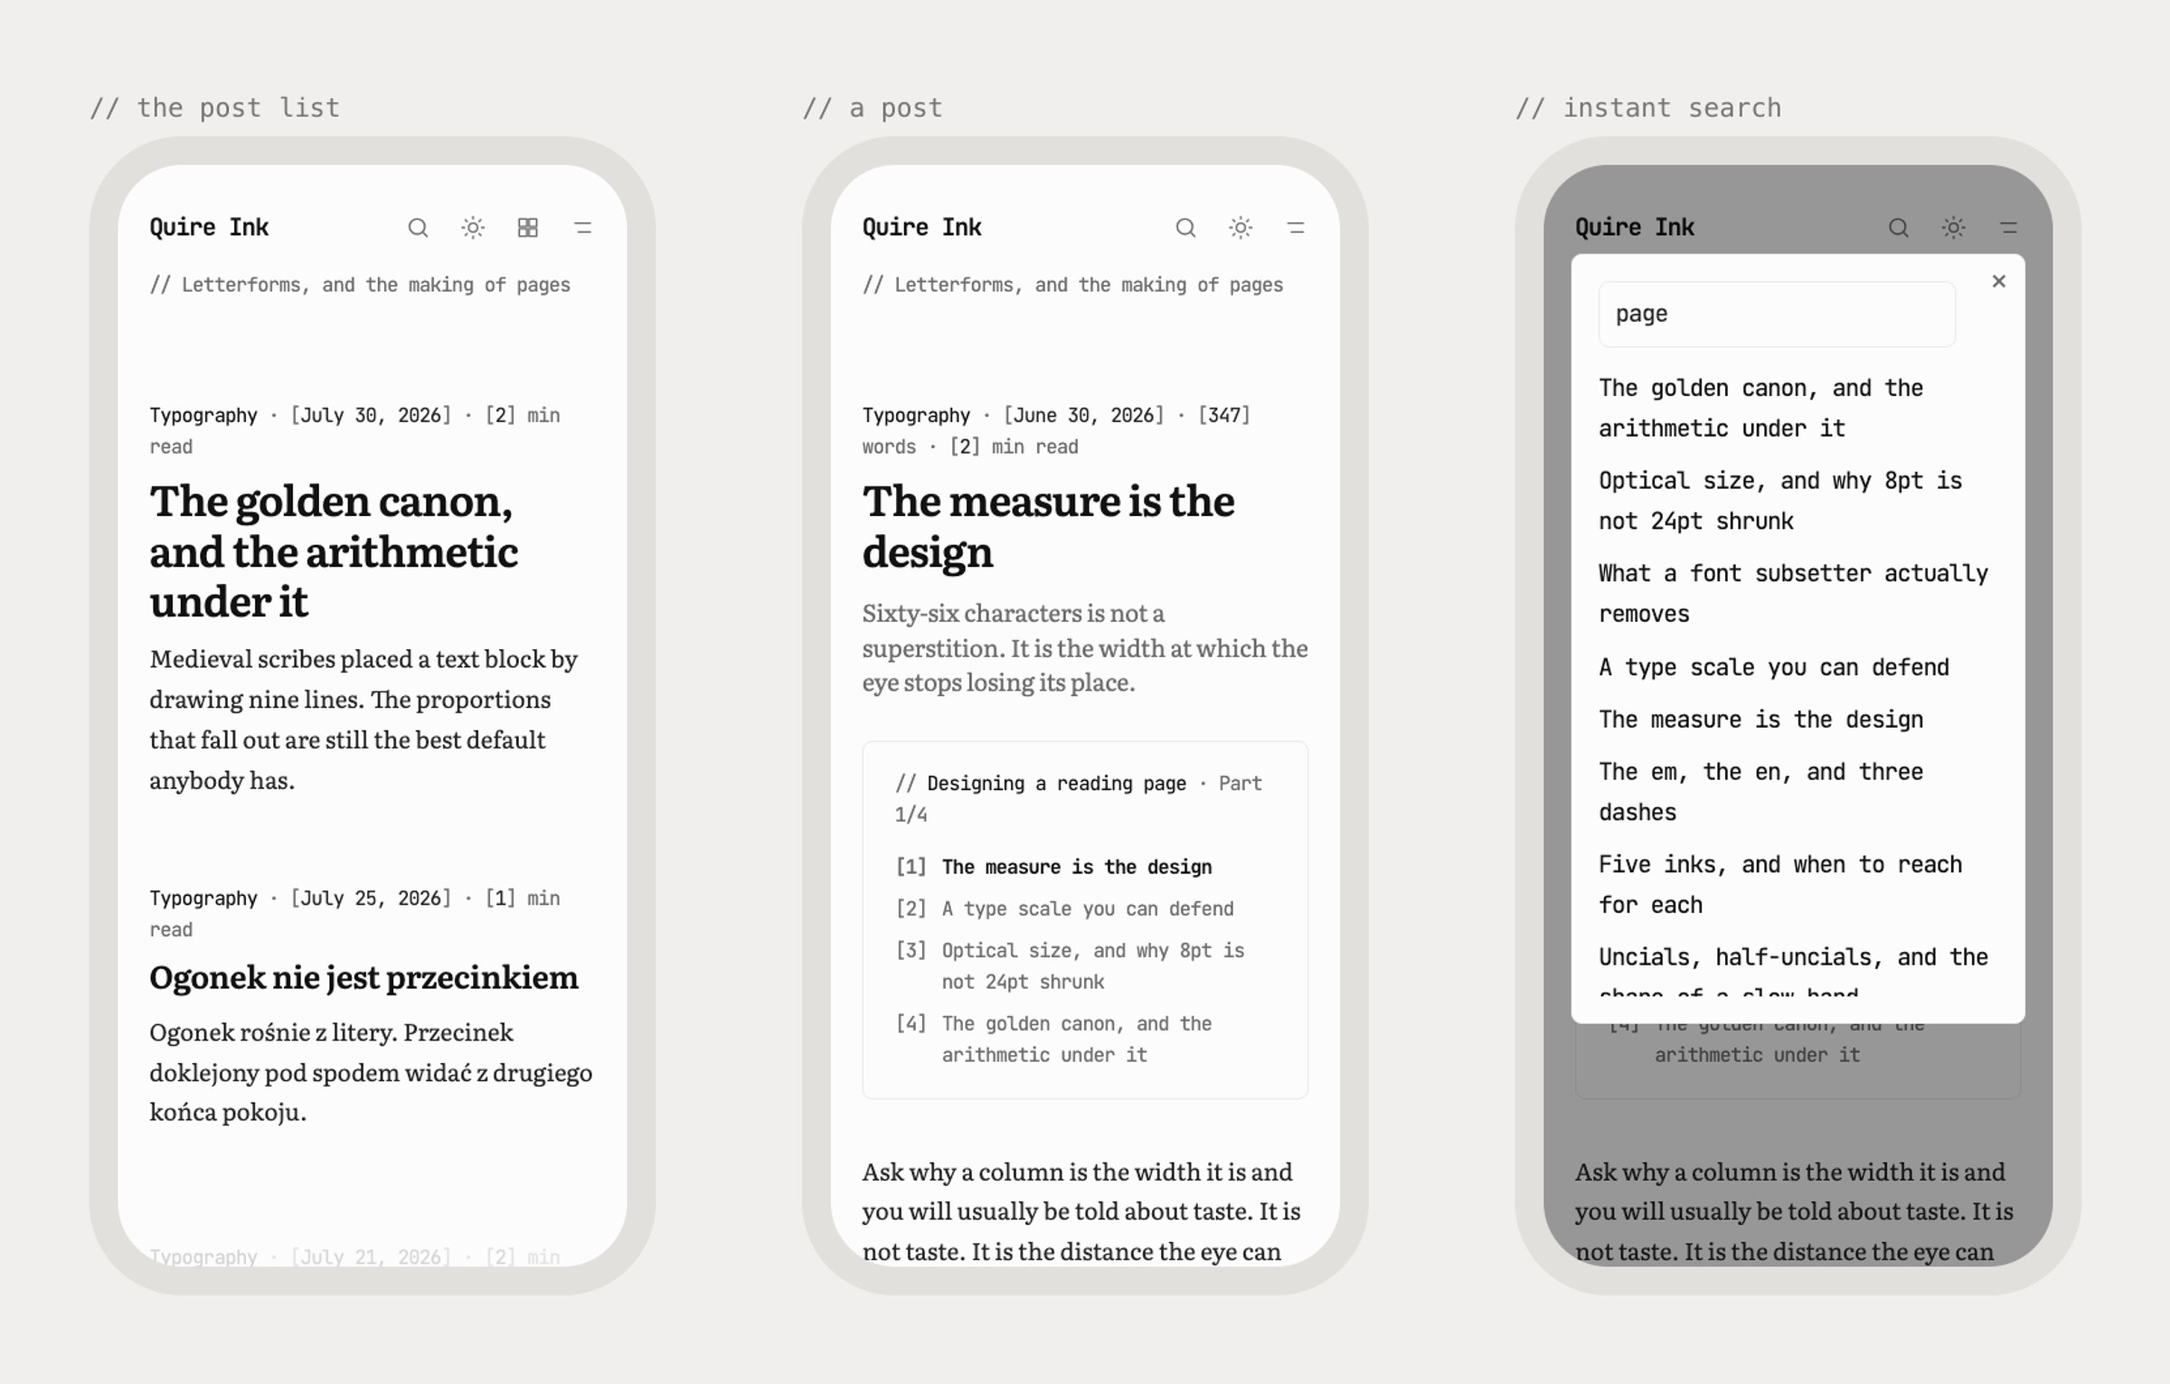
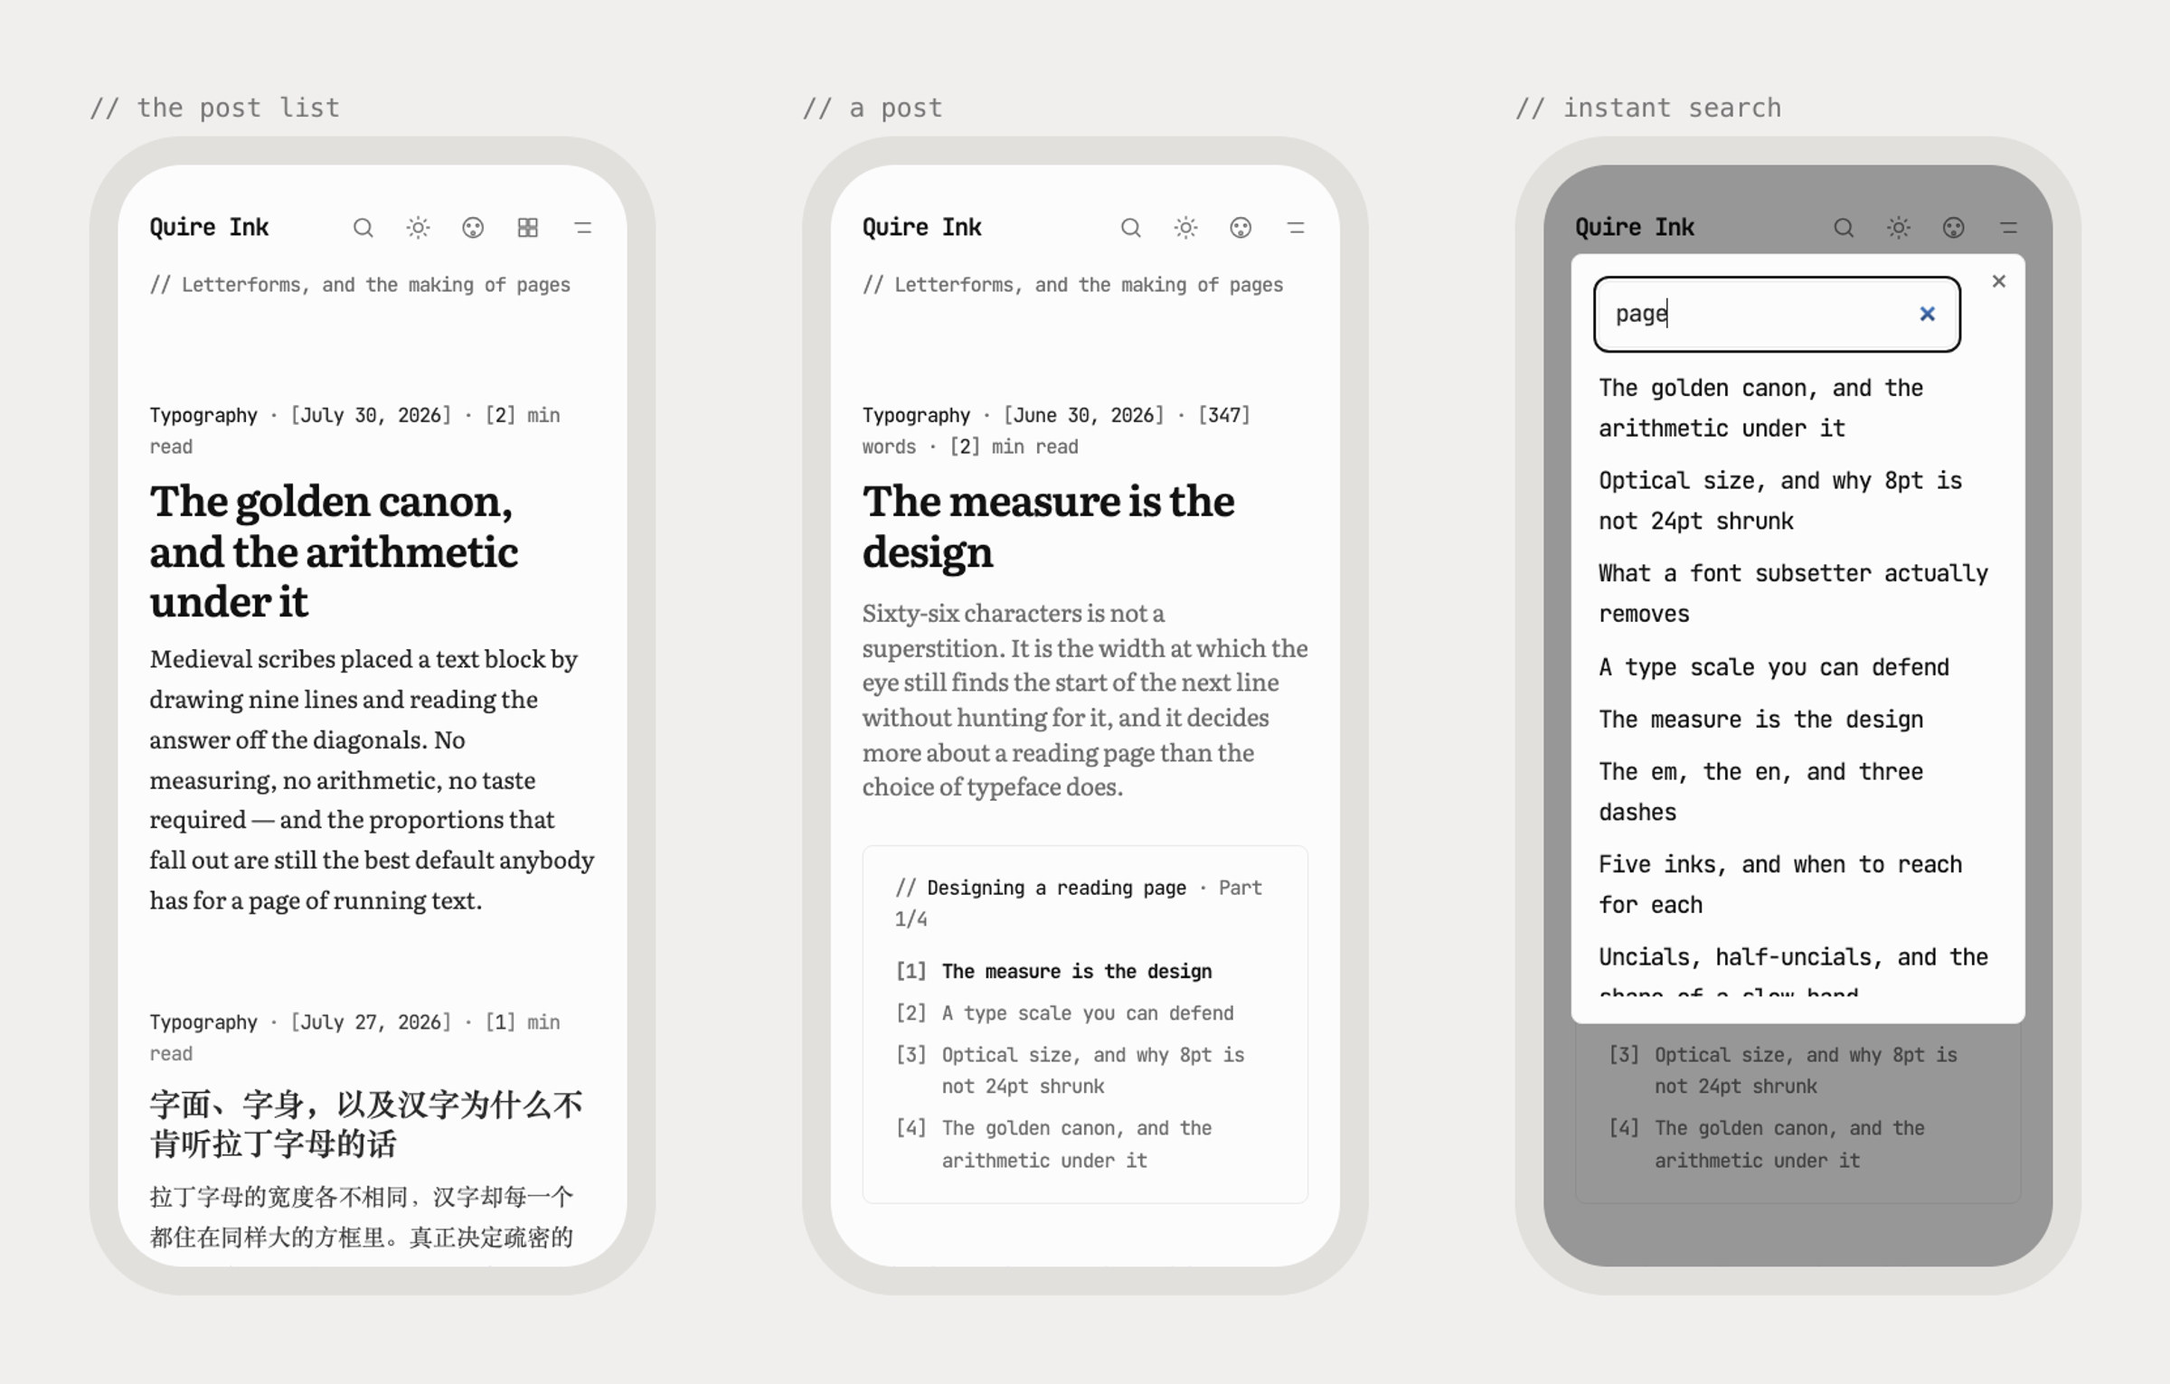
The docs still described the tree as it was before the release
Four plates and six files, all of them stale in the same way: they named a
file that moved, or claimed something the release had just stopped being true.

The plates are reshot from the current fixture, so the front page shows the
standfirsts at their real length and the three CJK posts, and the admin panels
show the admin as it now looks rather than as a dashboard framework.

`content/themes.ts` was named in five places for font helpers that are now in
`content/fonts.ts`. `i18n.md` said CJK falls back to `system-ui`, which was
the defect, not the design: it falls to a NAMED tail per language now.
`performance.md`'s CJK row said "a system font" without saying whose choice
that was.

ADR 0020 gets a dated note rather than a rewrite. It said the grammar lives in
`render/math.ts`; the file changed, the decision did not, and the reason it
changed is the ADR's own argument applied one level up.

CONTRIBUTING now says where the headless browser comes from, because the three
commands that need one no longer hardcode a Linux path.

READMEs: 2.0.3, and the payload rows re-read off this build -- unchanged, which
is worth stating rather than leaving a reader to assume.

diff --git a/README.vi.md b/README.vi.md
@@ -1,6 +1,6 @@
 <div align="center">
 
-# quire**INK** &nbsp;`2.0.2`
+# quire**INK** &nbsp;`2.0.3`
 
 **Một cái blog bạn tự host, và AI agent có thể vận hành thay bạn.**
 Một tiến trình. Hai tệp SQLite. Không tài khoản đám mây nào trong đường đi.
@@ -49,11 +49,13 @@ Có ba thứ định hình nó.
 
 Bạn được đọc, sửa, chạy và fork theo [PolyForm Noncommercial](./LICENSE).
 
-> **2.0.2 ra ngày 10/08/2026**, đang chạy bản demo ở trên và blog riêng của tác giả tại
-> [manhhung.me](https://manhhung.me). Bản này gồm mười hai lỗi được sửa, không có tính năng
-> mới — một giới hạn tần suất mà header giả mạo đi qua được, người đọc dùng giao diện tối mở
-> trang nào cũng loé trắng, và tệp CSS bị nén lại từ đầu ở mỗi request. Tất cả tìm ra bằng
-> cách **đo site đang chạy** chứ không phải đọc mã nguồn.
+> **2.0.3 ra ngày 15/08/2026**, đang chạy bản demo ở trên và blog riêng của tác giả tại
+> [manhhung.me](https://manhhung.me). Bản này gộp luôn 2.0.2, nên chỉ còn một bản để đọc.
+> Ba mươi tám commit: một đợt rà soát phát hiện không có giới hạn dung lượng tải lên, không
+> có hạn mức lưu trữ, và một máy chủ lắng nghe trên mọi giao diện mạng dưới một dòng log nói
+> ngược lại; một giới hạn tần suất mà header giả mạo đi qua được; và phần quản trị lâu nay
+> mặc bộ đồ của một framework dashboard chứ không phải của chính sản phẩm này. Gần như tất
+> cả đều tìm ra bằng cách **đo site đang chạy** chứ không phải đọc mã nguồn.
 > [Changelog](./CHANGELOG.md) có đủ những gì đã đổi.
 
 ---
@@ -94,7 +96,7 @@ Bạn được đọc, sửa, chạy và fork theo [PolyForm Noncommercial](./LI
 
 Đây là số đo từ mạng, lần vào đầu tiên, chưa cache gì. Đúng bằng cái mà một người lạ cầm điện thoại phải chờ.
 
-Hai dòng CSS và JavaScript là sản phẩm của bản build — giống nhau ở mọi bản cài — và lấy từ bản dựng 2.0.2. Các số tổng đo cho 2.0.1, tại origin chứ không qua CDN, và là của chính site này: tiếng Việt, Literata để đọc và JetBrains Mono cho phần khung. Chúng không phải thuộc tính của phần mềm, vì font được cắt theo bảng chữ và trình duyệt chỉ tải đúng những dải mà trang bạn dùng tới. Riêng font đã giảm từ 86 KB xuống 67 KB ở 2.0.1 mà không bỏ đi họ chữ nào.
+Hai dòng CSS và JavaScript là sản phẩm của bản build — giống nhau ở mọi bản cài — và lấy từ bản dựng 2.0.3 — 2.0.2 lẫn 2.0.3 đều không làm chúng nhúc nhích. Các số tổng đo cho 2.0.1, tại origin chứ không qua CDN, và là của chính site này: tiếng Việt, Literata để đọc và JetBrains Mono cho phần khung. Chúng không phải thuộc tính của phần mềm, vì font được cắt theo bảng chữ và trình duyệt chỉ tải đúng những dải mà trang bạn dùng tới. Riêng font đã giảm từ 86 KB xuống 67 KB ở 2.0.1 mà không bỏ đi họ chữ nào.
 
 | | Trang chủ | Một bài | |
 |:---|---:|---:|:---|

diff --git a/README.md b/README.md
@@ -1,6 +1,6 @@
 <div align="center">
 
-# quire**INK** &nbsp;`2.0.2`
+# quire**INK** &nbsp;`2.0.3`
 
 **A blog you host yourself, and an AI agent can run for you.**
 One process. Two SQLite files. No cloud account anywhere in the path.
@@ -49,12 +49,13 @@ Three things shaped it.
 
 You can read, change, run and fork it under [PolyForm Noncommercial](./LICENSE).
 
-> **2.0.2 came out on 2026-08-10** and runs the demo above plus the author's own blog at
-> [manhhung.me](https://manhhung.me). It is twelve fixes and no new features — a rate limit
-> that a forged header could walk past, a dark-mode reader who opened every page on a white
-> one, and a stylesheet that was re-compressed on every request. Found by measuring the
-> running site rather than reading the source, which is how the last release was audited too.
-> The [changelog](./CHANGELOG.md) has everything that changed.
+> **2.0.3 came out on 2026-08-15** and runs the demo above plus the author's own blog at
+> [manhhung.me](https://manhhung.me). It folds 2.0.2 in, so there is one release to read.
+> Thirty-eight commits: an audit that found no upload cap, no storage quota and a server
+> listening on every interface under a log line that said otherwise; a rate limit a forged
+> header could walk past; and an admin that had been wearing a dashboard framework's clothes
+> instead of this product's. Almost all of it was found by measuring the running site rather
+> than by reading the source. The [changelog](./CHANGELOG.md) has everything that changed.
 
 ---
 
@@ -94,7 +95,7 @@ You can read, change, run and fork it under [PolyForm Noncommercial](./LICENSE).
 
 These are off the network, first visit, nothing cached. It is what a stranger on a phone actually waits for.
 
-The CSS and JavaScript rows are build artefacts — the same bytes on every install — and are read off the 2.0.2 build. The totals were measured for 2.0.1 against the origin, not through the CDN, and they are this site: Vietnamese, Literata to read and JetBrains Mono for the furniture. They are not a property of the software, because the fonts are cut per script and a browser fetches only the ranges your pages actually use. Fonts fell 86 KB to 67 KB in 2.0.1 without a face being dropped.
+The CSS and JavaScript rows are build artefacts — the same bytes on every install — and are read off the 2.0.3 build; nothing in 2.0.2 or 2.0.3 moved them. The totals were measured for 2.0.1 against the origin, not through the CDN, and they are this site: Vietnamese, Literata to read and JetBrains Mono for the furniture. They are not a property of the software, because the fonts are cut per script and a browser fetches only the ranges your pages actually use. Fonts fell 86 KB to 67 KB in 2.0.1 without a face being dropped.
 
 | | Home | A post | |
 |:---|---:|---:|:---|

diff --git a/docs/conventions/type.md b/docs/conventions/type.md
@@ -16,7 +16,8 @@
   LOOKS wired, which is why review never caught it.
 - 9 roles (`TypeRole`: `h1–h5`, `body`, `small`, `caption`, `code`), each with
   size/line-height/letter-spacing → CSS vars `--fs/--lh/--ls-<role>`, from
-  `DEFAULT_TYPOGRAPHY` in [`src/content/themes.ts`](../../src/content/themes.ts). The owner's
+  `DEFAULT_TYPOGRAPHY` in [`src/content/fonts.ts`](../../src/content/fonts.ts) (re-exported by
+  `themes.ts`, so either import path works). The owner's
   `settings.typography` is emitted by `typographyToCss()` (also applies in the admin editor
   `.prose` = WYSIWYG). `smoothing` adds `-webkit-font-smoothing` on `body`.
 - **`--type-scale` lives inside the variable, not at the call site.** Each `--fs-<role>` is
@@ -121,7 +122,7 @@ re-substitutes it there. Pinned by `web/typography.test.ts`.
 ## Fonts — two handles, four built-in presets
 
 - **Built-in fonts (`fontPreset`).** Four self-hosted families in `FONT_PRESETS`
-  (`src/content/themes.ts`): Inter, Source Sans 3, Literata, Source Serif 4 — each declared per
+  (`src/content/fonts.ts`): Inter, Source Sans 3, Literata, Source Serif 4 — each declared per
   unicode-range in `src/render/font-faces.ts`,
   so a family downloads ONLY when the chosen preset uses it. Each preset carries the typography
   TUNED for it; picking a font in Admin → Appearance drops that setup into the editable roles (still
@@ -132,7 +133,7 @@ re-substitutes it there. Pinned by `web/typography.test.ts`.
   body + title, list cards, comment body, the editor `.prose`) and is what `fontPresetCss` /
   `fontToCss` point (custom upload wins). `--font-sans` is the system-chrome face (dates/reading-time,
   related/taxonomy, header, footer, rail — **the PUBLIC page only**), driven INDEPENDENTLY by the `chromeFont` selector
-  (`CHROME_FONTS` in `src/content/themes.ts`, Admin → Appearance): `inter` (default, no override) ·
+  (`CHROME_FONTS` in `src/content/fonts.ts`, Admin → Appearance): `inter` (default, no override) ·
   `reading` (points `--font-sans` at `--font-reading` so the chrome follows the reading font) ·
   `plex-mono` (self-hosted IBM Plex Mono — a "code" chrome while the body stays readable; declared
   per unicode-range in `src/render/font-faces.ts`, two static weights range-mapped 400/600,

diff --git a/docs/performance.md b/docs/performance.md
@@ -1,6 +1,6 @@
 > Split from CLAUDE.md — the **resource-loading law**: how fonts, CSS, and JS reach a
 > reader. One rule set, applied system-wide (every language, every font preset, every
-> uploaded font). Touching `src/web/layout.ts`, the font helpers in `src/content/themes.ts`,
+> uploaded font). Touching `src/web/layout.ts`, the font helpers in `src/content/fonts.ts`,
 > the `src/web/*.css.ts` sheets, or adding an island? Read this first.
 
 # Performance — resource loading (fonts · CSS · JS)
@@ -34,13 +34,13 @@ rel="preload">` exists ONLY to remove that one swap on the LCP title — so we p
 the file(s) that paint it, and nothing else.
 
 **The rule — one place, `fontPreloadHrefs(fontPreset, language, hasCustomFont, chromeFont)`
-in `src/content/themes.ts`, called once in `src/web/layout.ts`:**
+in `src/content/fonts.ts`, called once in `src/web/layout.ts`:**
 
 | Case | Preload |
 |---|---|
 | Built-in reading font, latin locale (`en`, `de`) | `‹slug›-latin.woff2` |
 | Built-in reading font, `vi` | `‹slug›-latin.woff2` **and** `‹slug›-vietnamese.woff2` (a VN title needs both unicode-ranges) |
-| Built-in reading font, CJK locale (`ja`, `zh`, `ko`) | **nothing** — the built-ins ship no CJK glyphs, so the title renders in a system font; a latin preload it won't use only steals bandwidth |
+| Built-in reading font, CJK locale (`ja`, `zh`, `ko`) | **nothing** — the built-ins ship no CJK glyphs and never will (a CJK webfont is megabytes), so the title renders in a system face; a latin preload it won't use only steals bandwidth. Which system face is not left to the browser: every reading stack ends in a NAMED CJK tail, one per language, selected by `cjkLangCss` on `:lang(zh\|ja\|ko)`. Zero bytes downloaded — see `CJK_ZH` / `CJK_JA` / `CJK_KO` in `src/content/fonts.ts` |
 | **Uploaded custom font** (`settings.customFont`) | **nothing** — the face is unsubsetted (whole charset, often large); a high-priority preload would contend with the render-blocking CSS and hurt LCP. It still wins `--font-reading` via `fontToCss`; `swap` covers the paint |
 | **Chrome font** (Inter default, IBM Plex Mono, "reading") | **NEVER** — not the LCP element; loads at normal priority via its `@font-face` and swaps in |
 

diff --git a/docs/decisions/0020-mathematics-as-mathml.md b/docs/decisions/0020-mathematics-as-mathml.md
@@ -70,10 +70,20 @@ look at it, so the delimiters are gone and nothing in the saved file records tha
 was ever a formula. Neither throws. Both corrupt the author's source on a save they did not
 know was a rewrite — open a post, close it, and the mathematics is quietly destroyed.
 
-So the grammar lives in `render/math.ts` and every reader of it calls the same two functions
+So the grammar lives in ONE file and every reader of it calls the same two functions
 (`matchMathAt`, `matchDisplayBlockAt`). No caller anywhere sees a capture group. That is the
 lesson of ADR 0018's pen, which drifted between two hand-written copies of its regex within
 an hour and put the word "green" into every excerpt on the site.
+
+> **2026-08-15 — that file is now `render/math-syntax.ts`, and the decision is unchanged.**
+> The grammar and the Temml renderer had shared `render/math.ts`, which was fine until you
+> notice an ESM import is not a menu: `@/utils` wanted three regex helpers so `toPlainText`
+> could drop a formula out of an excerpt, and took a LaTeX engine with them. Fifteen admin
+> files import `@/utils`, so 212 KB of Temml landed in the chunk every admin screen loads —
+> measured on the Comments screen, which has neither an editor nor a formula on it. The
+> split is along the line this ADR already drew: `math-syntax.ts` holds the grammar and may
+> never import a renderer; `math.ts` keeps `renderMath` and the `marked` extensions and
+> re-exports the grammar, so a parser that needs both halves still asks one module.
 
 The delimiter the author typed is stored on the node, so `\[…\]` comes back as `\[…\]`.
 Normalising it to `$$…$$` would have been one attribute cheaper and would mean that opening a

diff --git a/docs/conventions/i18n.md b/docs/conventions/i18n.md
@@ -3,8 +3,11 @@
 - `types.ts` = shapes (`Dict` public, `AdminStrings` admin). Add a key → every locale file
   must define it (`satisfies` → build error otherwise = the no-missing-keys guarantee).
 - `langs.ts` = `SITE_LANGS` + `isSiteLang`. Public `src/locales/<code>.ts`, admin
-  `src/locales/admin/<code>.ts`. Supported: **en (default), vi, de, ja, zh, ko** (CJK via
-  `system-ui` fallback — Inter has no CJK glyphs).
+  `src/locales/admin/<code>.ts`. Supported: **en (default), vi, de, ja, zh, ko**. No bundled
+  face carries a CJK glyph, so CJK falls to a system face — a NAMED one, not the browser's
+  last resort: `cjkLangCss` in `src/content/fonts.ts` emits a tail per language on
+  `:lang(zh|ja|ko)`, because 直 is one codepoint drawn three ways and a font-family list
+  never consults the language of the text.
 - **Add a language:** extend `SiteLang`, add a `SITE_LANGS` row + a `DATE_LOCALE` entry in
   `i18n.ts` + both locale files.
 - **Add/rename a string:** add to `types.ts`, then fill ALL locale files. Build fails until

diff --git a/CONTRIBUTING.md b/CONTRIBUTING.md
@@ -36,7 +36,18 @@ third-party account, no credentials. The four commands are in
 
 Two more are worth knowing, because the house rule is that you LOOK at what you changed
 instead of reasoning about rendered CSS from the source: `bun run shot` takes a screenshot
-and `bun run drive` drives headless Chromium through a flow.
+and `bun run drive` drives headless Chromium through a flow. `bun run tour` uses the same
+browser for forty flows.
+
+All three need a headless browser, and they find one themselves — `scripts/chrome-path.ts`
+looks for a `@puppeteer/browsers` install, then the usual system paths, then full Chrome.
+If it finds none it names the command rather than throwing a path at you:
+
+```
+bunx @puppeteer/browsers install chrome-headless-shell@stable --path "$HOME/chrome"
+```
+
+`CHROME=/path/to/binary` overrides all of it.
 
 ## Definition of done
 
